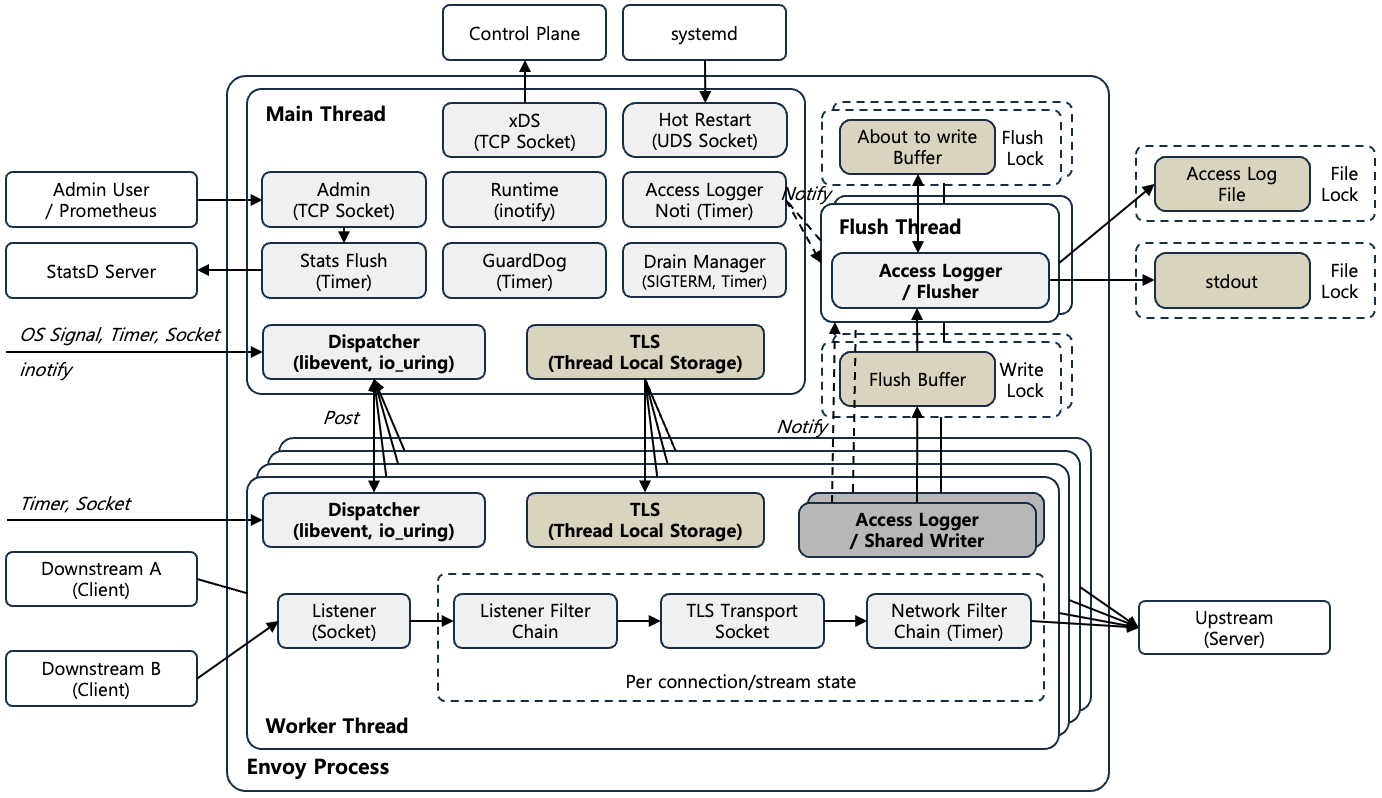
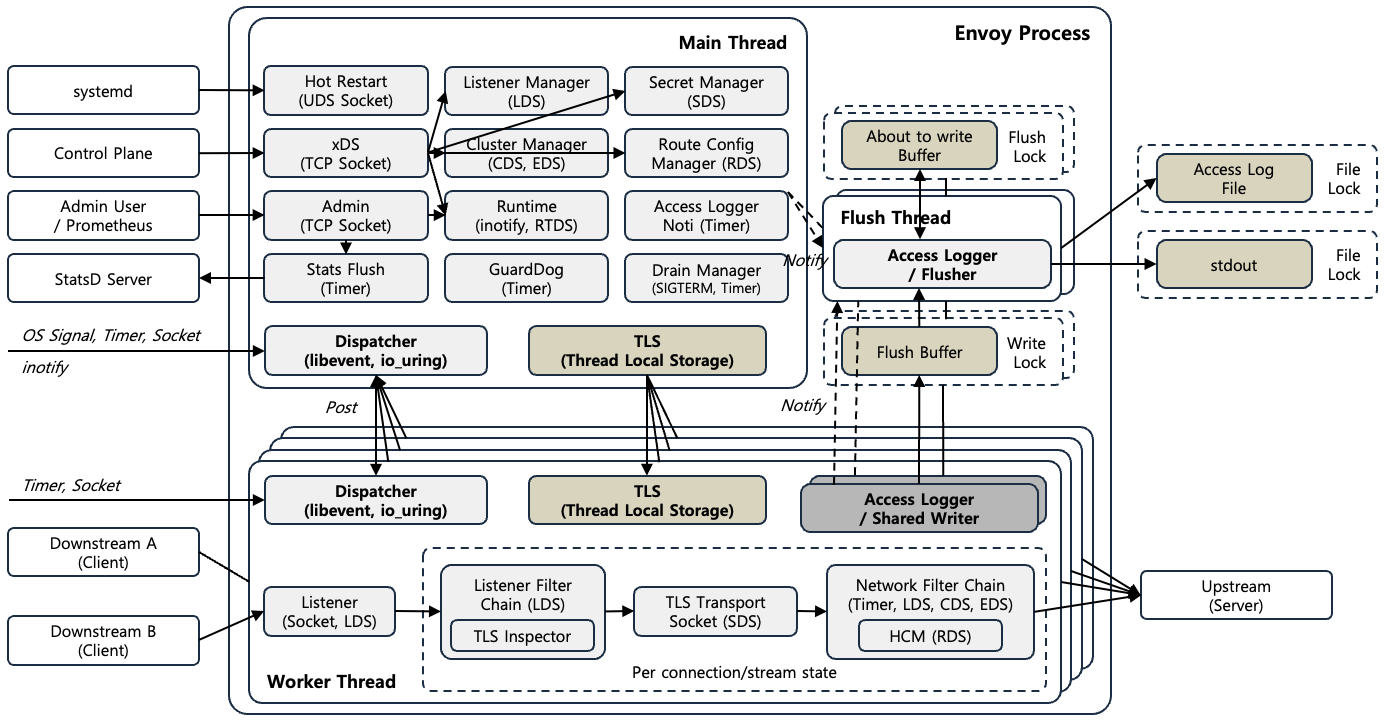
update

Changed region(s): [[0.0, 0.0, 0.9957, 1.0], [0.6845, 0.0, 0.809, 0.0609], [0.7779, 0.0913, 0.809, 0.1217]]

diff --git a/content/docs/theory-analysis/envoy-architecture/index.md b/content/docs/theory-analysis/envoy-architecture/index.md
@@ -4,7 +4,7 @@ title: "Envoy Architecture"
 
 ## 1. Envoy Architecture
 
-{{< figure caption="[Figure 1] Envoy Architecture" src="images/envoy-architecture.png" width="1000px" >}}
+{{< figure caption="[Figure 1] Envoy Architecture" src="images/envoy-architecture.png" width="1100px" >}}
 
 [Figure 1]은 Envoy Architecture를 나타내고 있다. Envoy Architecture는 **libevent**와 **io_uring**을 기반으로 동작하는 **Dispatcher**를 활용하여 **Event Driven Architecture**를 구현하고 있으며, 성능 최적화를 위해서 각 Thread마다 전용 저장소인 **TLS** (Thread Local Storage)를 활용하여 Lock 활용을 최소화하며 동작한다. Thread 관점에서는 **Main Thread**, **Worker Thread**, **Flush Thread**로 구분된다.
 
@@ -12,14 +12,65 @@ title: "Envoy Architecture"
 
 Main Thread는 Envoy 초기화 및 Worker Thread의 Control Plane 역할을 수행한다. Dispatcher를 통해서 OS Signal, Timer, Socket, inotify 등의 다양한 Event를 수신하고, 해당 Event를 적절한 Module에 전달하여 처리한다. 각 Module은 상태 저장이 필요한 경우 Main Thread의 TLS에 저장하며, Worker Thread에 Data를 전달이 필요한 경우에도 TLS와 Dispatcher를 통해서 전달한다. Main Thread에서 동작하는 Module은 다음과 같다.
 
-* **Runtime** : 
-* **xDS** : 
-* **Stats Flush** : 
-* **Drain Manager** : 
-* **Admin** : 
-* **GuardDog** : 
-* **Hot Restart** : 
-* **Access Logger Notification** : 
+#### 1.1.1. Runtime
+
+**Runtime**은 재시작 없이 동적으로 바꿀수 있는 설정 값인 Feature Flag를 관리하는 역할을 수행한다. Feature Flag는 **Snapshot** 형태로 TLS Slot에 저장되어 이용된다. Feature Flag는 JSON 형태의 파일로 구성하는 **Static Bootstrap** 방식, Directory와 File을 활용하여 계층으로 구성하는 **File System Layout** 방식, `/runtime_modify` Admin Endpoint를 통해서 관리하는 **Admin Console** 방식, xDS중 하나인 RTDS (Runtime Discovery Service)를 활용하는 **Runtime Discovery Service** 방식으로 관리된다.
+
+**Static Bootstrap** 방식을 제외하고는 모두 Envoy 재시작 없이 동적으로 Feature Flag를 변경할 수 있으며, File System Layout 방식을 이용할 경우 파일의 변화를 Dispatcher와 inotify를 통해서 감지하여 Feature Flag를 동적으로 변경한다.
+
+#### 1.1.2. xDS (eXtensible Discovery Service)
+
+xDS (eXtensible Discovery Service)는 Envoy가 Envoy를 관리하는 Control Plane으로부터 필요한 설정 정보를 동적으로 가져오는 역할을 수행한다. xDS는 역할에 따라서 다음과 같은 종류가 존재한다.
+
+* **LDS (Listener Discovery Service)** : Listener의 Port, Listener/Network Filter Chain 설정 정보를 가져온다.
+* **RDS (Route Discovery Service)** : HTTP 기반으로 어느 Cluster로 요청을 전달할지 결정하는 HTTP 기반 라우팅 설정 정보를 가져온다.
+* **CDS (Cluster Discovery Service)** : Cluster의 정보를 가져온다. 여기서 Cluster는 Endpoint (Upstream Server)의 집합을 의미한다.
+* **EDS (Endpoint Discovery Service)** : Cluster의 실제 Endpoint 정보를 가져온다.
+* **SDS (Secret Discovery Service)** : TLS 인증서 정보를 가져온다.
+* **RTDS (Runtime Discovery Service)** : Runtime Feature Flag 정보를 가져온다.
+
+#### 1.1.3. Listener Manager, Cluster Manager, Secret Manager, Route Config Manager
+
+Listener Manager, Cluster Manager, Secret Manager, Route Config Manager는 xDS를 통해서 가져온 설정 정보를 관리하고, 필요에 따라서 Worker Thread에 **TLS**와 **Dispatcher**를 통해서 전달한다.
+
+* **Listener Manager** : LDS를 통해서 가져온 Listener 및 Listenter/Network Filter Chain 설정 정보를 Worker Thread에 전달하여, Worker Thread가 Listener 설정 및 Listenter/Network Filter Chain을 생성하도록 만든다.
+* **Cluster Manager** : CDS, EDS를 통해서 가져온 Cluster, Endpoint의 Worker Thread에 TLS에 설정하여 Network Filter의 Router Filter가 적절한 Upstream으로 요청을 전달하도록 만든다.
+* **Secret Manager** : SDS를 통해서 가져온 TLS 인증서 정보를 Worker Thread의 TLS Transport Socket에 전달한다.
+* **Route Config Manager** : RDS를 통해서 가져온 Route Config 정보를 HCM (HTTP Connection Manager)에 전달하여, HCM Router Filter가 적절한 Cluster로 요청을 전달하도록 만든다.
+
+#### 1.1.3. Stats Flush
+
+Stats Flush는 Dispatcher와 Timer를 활용하여 주기적으로 깨어나며 Envoy 관련 통계/Metric 정보를 TLS에 저장하고, 설정에 따라서 StatsD Server로 통계/Metric 정보를 전송하는 역할을 수행한다.
+
+#### 1.1.4. Drain Manager
+
+Drain Manager는 Dispatcher를 통해서 SIGTERM Signal을 수신하면, 곧바로 Envoy를 종료하는게 아니라 현재 처리중인 Request를 종료하고 종료 완료 후에 Envoy를 종료하는 역할을 수행한다.
+
+#### 1.1.5. Admin
+
+Admin은 Envoy 관리 및 상태 정보 조회를 위한 Endpoint를 제공하는 역할을 수행한다. 주요 Endpoint는 다음과 같다.
+
+* `/stats` : Envoy 관련 통계/Metric 정보를 조회하는 Endpoint. 내부적으로 Stats Flush Module이 TLS에 저장한 정보를 조회하여 제공한다.
+* `/stats/prometheus` : Prometheus Exporter 형태로 Envoy 관련 통계/Metric 정보를 제공한다.
+* `/clusters` : Cluster 정보를 제공한다.
+* `/listeners` : Listener 정보를 제공한다.
+* `/memory` : Envoy 메모리 사용 정보를 제공한다.
+* `/ready` : Envoy 준비 상태를 제공한다. (Readiness Probe)
+* `/runtime` : 현재 Runtime Feature Flag 정보를 제공한다.
+* `/runtime_modify` : Runtime Feature Flag를 동적으로 변경하는 Endpoint.
+* `/server_info` : Envoy 서버 정보를 제공한다.
+* `/config_dump` : Envoy 서버의 전체 설정 정보를 제공한다.
+* `/logging` : Logging Level을 변경하는 기능을 제공한다.
+* `/quitquitquit` : Envoy를 종료하는 기능을 제공한다.
+* `/reset_counters` : 통계/Metric 정보를 초기화하는 기능을 제공한다.
+* `/cpuprofile` : CPU Profile을 수집하는 기능을 제공한다.
+* `/memoryprofile` : Memory Profile을 수집하는 기능을 제공한다.
+
+#### 1.1.6. GuardDog
+
+#### 1.1.7. Hot Restart
+
+#### 1.1.8. Access Logger Notification
 
 ### 1.2. Worker Thread
 
@@ -41,7 +92,7 @@ Worker Thread는 **Downstream** (Client)의 요청을 받아 처리 이후에 **
 
 {{< figure caption="[Figure 2] Envoy TLS (Thread Local Storage)" src="images/envoy-tls.png" width="800px" >}}
 
-{{< figure caption="[Figure 3] Envoy Run on All Threads" src="images/envoy-runonallthreads.png" width="1000px" >}}
+{{< figure caption="[Figure 3] Envoy Run on All Threads" src="images/envoy-runonallthreads.png" width="900px" >}}
 
 ### 1.4. Flush Thread
 

diff --git a/content/docs/theory-analysis/spark-join-strategy/index.md b/content/docs/theory-analysis/spark-join-strategy/index.md
@@ -3,43 +3,31 @@ title: Spark Join Strategy
 draft: true
 ---
 
-## 1. Strategy Decision Flow
+## 1. Spark Join Strategy
 
 {{< table caption="[Table 1] Spark Join Strategy" >}}
 | Join Strategy | 개요 | Shuffle | 지원 Join Type | Hint |
 |----|----|----|----|----|
-| Broadcast Hash Join | 소형 Table을 Executor에 Broadcast 후 Hash Join | 불필요 (Broadcast) | Inner, Left Semi, Left Anti | `BROADCAST`, `BROADCASTJOIN`,  `MAPJOIN`|
+| Broadcast Hash Join | 소형 Table을 Executor에 Broadcast 후 Hash Join | 불필요 (Broadcast) | Inner, Left Semi, Left Anti | `BROADCAST` |
 | Shuffle Hash Join | 양쪽을 Join Key로 Shuffle 후 Hash Join | 필요 | Inner | `SHUFFLE_HASH` |
-| Shuffle Sort Merge Join | 양쪽을 Join Key로 Shuffle·정렬 후 Merge Join | 필요 | Inner, Left/Right/Full Outer |  `SHUFFLE_MERGE`, `MERGE`,`MERGEJOIN` |
-| Cartesian Product (Cross Join) | 두 Table의 모든 Row 조합 | 불필요 또는 필요 | Cross | `SHUFFLE_REPLICATE_NL` |
+| Shuffle Sort Merge Join | 양쪽을 Join Key로 Shuffle·정렬 후 Merge Join | 필요 | Inner, Left/Right/Full Outer | `MERGE` |
+| Cross Join | 두 Table의 모든 Row 조합 | 불필요 또는 필요 | Cross | `SHUFFLE_REPLICATE_NL` |
 | Broadcast Nested Loop Join | 소형 Table Broadcast 후 Nested Loop | 불필요 (Broadcast) | Inner, Outer | - |
 {{< /table >}}
 
-{{< figure caption="[Figure 1] Spark Join Strategy Decision Flow" src="images/spark-join-strategy-decision-flow.png" width="1000px" >}}
+### 1.1. Strategy Decision Flow
 
-## 2. Join Strategy
+### 1.2. Broadcast Hash Join
 
-### 2.1. Broadcast Hash Join
+### 1.3. Shuffle Hash Join
 
-{{< figure caption="[Figure 2] Broadcast Hash Join" src="images/spark-join-broadcast-hash.png" width="1000px" >}}
+### 1.4. Shuffle Sort Merge Join
 
-### 2.2. Shuffle Hash Join
+### 1.5. Broadcast Nested Loop Join
 
-{{< figure caption="[Figure 3] Shuffle Hash Join" src="images/spark-join-shuffle-hash.png" width="1000px" >}}
+### 1.6. Cartesian Product (Cross Join)
 
-### 2.3. Shuffle Sort Merge Join
-
-{{< figure caption="[Figure 4] Shuffle Sort Merge Join" src="images/spark-join-shuffle-sort-merge.png" width="1000px" >}}
-
-### 2.4. Cartesian Product (Cross Join)
-
-{{< figure caption="[Figure 5] Cartesian Product (Cross Join)" src="images/spark-join-cartesian-product.png" width="1000px" >}}
-
-### 2.5. Broadcast Nested Loop Join
-
-{{< figure caption="[Figure 6] Broadcast Nested Loop Join" src="images/spark-join-broadcast-nested-loop.png" width="1000px" >}}
-
-## 3. 참고
+## 2. 참고
 
 * Spark Join : [https://velog.io/@kimhaggie/spark-join%EC%9D%98-%EC%A2%85%EB%A5%98](https://velog.io/@kimhaggie/spark-join%EC%9D%98-%EC%A2%85%EB%A5%98)
 * Spark Join : [https://sunrise-min.tistory.com/entry/Apache-Spark-Join-strategy](https://sunrise-min.tistory.com/entry/Apache-Spark-Join-strategy)